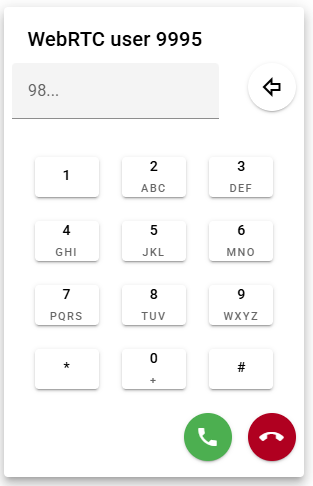
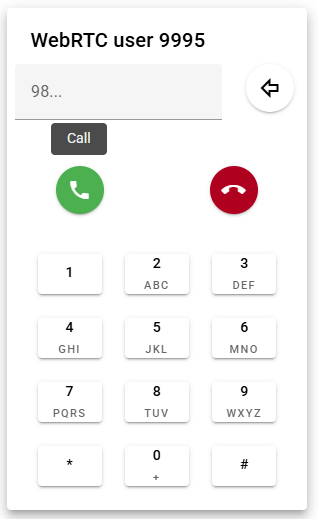
v-row fix.

diff --git a/phone/src/components/PhonePad.vue b/phone/src/components/PhonePad.vue
@@ -8,44 +8,20 @@
     <!-- <v-divider></v-divider> -->
     <v-form @submit.prevent="handleSubmit" @reset.prevent="handleReset">
     <v-row v-if="props.showInput">
-      <v-col cols="12" sm="9">
+      <v-col cols="7" sm="9">
         <v-text-field
           v-model="sip.calleePhoneNum"
           label="98..."
         ></v-text-field>
       </v-col>
-      <v-col cols="12" sm="3" class="text-right">
+      <v-col cols="5" sm="3" class="text-left">
         <v-btn icon="mdi-arrow-left-bold-outline" @click="sip.deleteLast"></v-btn>
       </v-col>
     </v-row>
 
-    <v-card v-if="props.showInput"
-      elevation="0"
-      class="mx-auto pa-4"
-      max-width="270"
-    >
-      <v-row>
-        <v-col
-          v-for="key in keys"
-          :key="key[0]"
-          cols="12" sm="4" class="text-center"
-        >
-          <v-btn
-            height="40"
-            @click="sip.appendKey(key[0])"
-          >
-            <span>
-              <div class="mb-1">{{ key[0] }}</div>
-              <small class="text-medium-emphasis">{{ key[1] }}</small>
-            </span>
-          </v-btn>
-        </v-col>
-      </v-row>
-    </v-card>
-
     <v-row>
-      <v-col cols="12" sm="12" class="text-right">
-        <v-btn class="ma-2"
+      <v-col cols="6" sm="6" class="text-center">
+        <v-btn
           color="success"
           type="submit"
           icon
@@ -54,7 +30,9 @@
           <v-icon>mdi-phone</v-icon>
           <v-tooltip activator="parent" location="top">{{ sip.incomeDisplay ? 'Answer' : 'Call' }}</v-tooltip>
         </v-btn>
-        <v-btn class="ml-2"
+      </v-col>
+      <v-col cols="6" sm="6" class="text-center">
+        <v-btn
           color="error"
           type="reset"
           icon
@@ -62,6 +40,34 @@
           <v-icon>mdi-phone-hangup</v-icon>
           <v-tooltip activator="parent" location="top">End</v-tooltip>
         </v-btn>
+      </v-col>
+    </v-row>
+
+    <v-row v-if="props.showInput">
+      <v-col cols="12" sm="12">
+        <v-card
+          elevation="0"
+          class="mx-auto pa-4"
+          max-width="270"
+        >
+          <v-row>
+            <v-col
+              v-for="key in keys"
+              :key="key[0]"
+              cols="4" sm="4" class="text-center"
+            >
+              <v-btn
+                height="40"
+                @click="sip.appendKey(key[0])"
+              >
+                <span>
+                  <div class="mb-1">{{ key[0] }}</div>
+                  <small class="text-medium-emphasis">{{ key[1] }}</small>
+                </span>
+              </v-btn>
+            </v-col>
+          </v-row>
+        </v-card>
       </v-col>
     </v-row>
     
